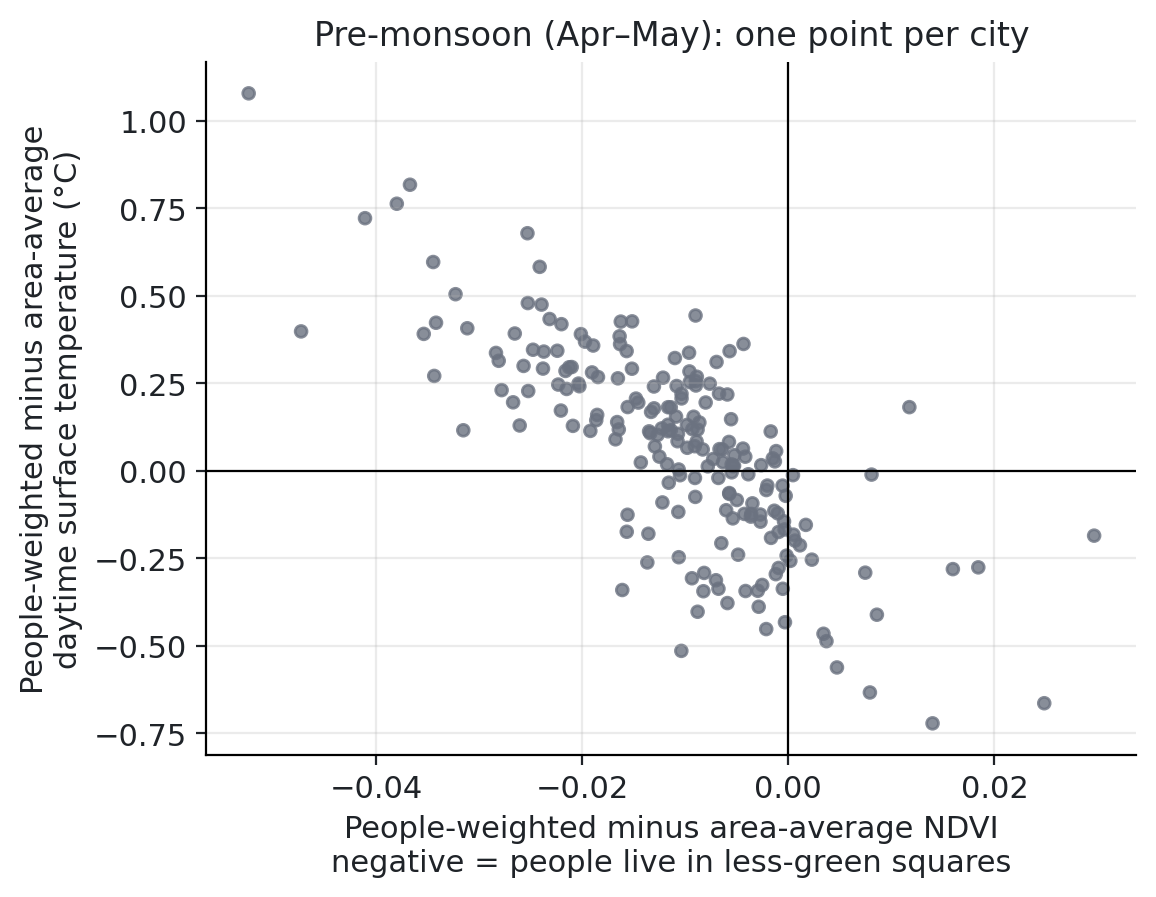
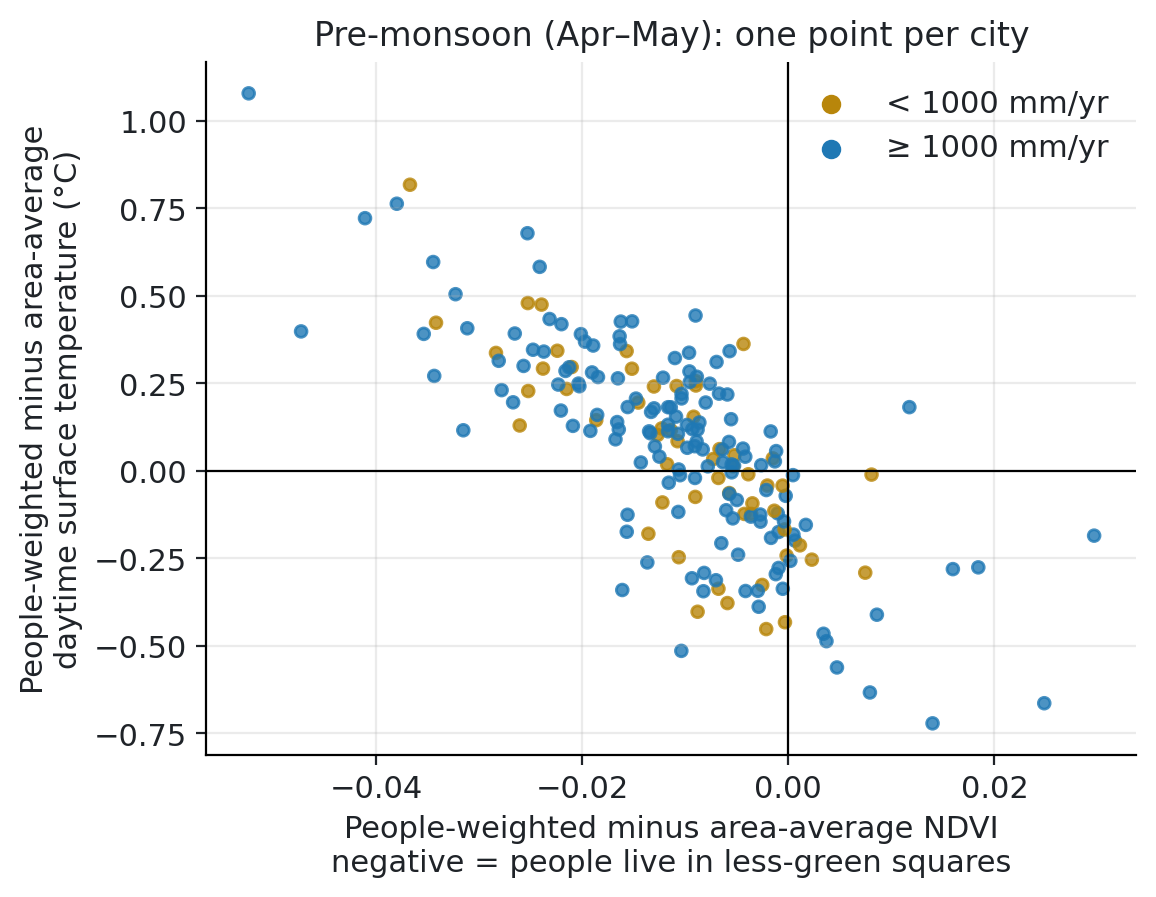
Role 4: exposure by rainfall, final slides 15 and 17, deck fact-check fixes
- exposure re-run with rainfall groups; the named pre-monsoon exceptions are
  mostly wet cities, so the dry-outskirts explanation is withdrawn
- new finding: less-green crowded squares have larger heat gaps (rho ~ -0.73)
- deck: slides 15 and 17 written; finished slides marked READY; slide 6/6b
  clear-image measures explained (land median vs all-square mean); slide 16
  6-night claim corrected

diff --git a/docs/deck_outline.md b/docs/deck_outline.md
@@ -103,7 +103,7 @@
 - 303 cities, 53,614 squares of 1 km, about 297 million people (WorldPop 2020). Source: `data/results/b2_checks.csv`, `data/samples/`.
 - Seasons really do differ: the median square is 39.7 °C by day before the monsoon, 31.2 °C after it and 27.9 °C in winter. Each season is averaged over 2019–2024.
 
-*Likely TA question:* "Why these three seasons and not the monsoon?" Jun–Sep cloud leaves too few usable images (Role 5's slide 6b, and Kumar et al. 2017 excluded it for the same reason). The other three each still have a clear daytime image 94–98% of the time in the median city.
+*Likely TA question:* "Why these three seasons and not the monsoon?" Jun–Sep cloud leaves too few usable images (Role 5's slide 6b, and Kumar et al. 2017 excluded it for the same reason). The other three still keep 94–98% of 8-day images after quality filtering (median over **land** squares, median city; `b2_checks.csv`). This is a different measure from slide 6b's, which averages over all squares including water.
 
 *Second likely TA question:* "Why is Kochi warmer in winter than before the monsoon?" Kerala's April–May is already wet (622 mm in Kochi), so the ground is cooled by evaporation, while winter is dry and sunny. Kochi's winter surface is 34.1 °C against 33.7 °C pre-monsoon. The same code gives the expected order in Jodhpur, so it is not a bug.
 
@@ -111,6 +111,7 @@
 - **Figure:** `figures/M_lst_availability.png`.
 - **Text:** "In Mumbai, only **25.2%** of daytime 8-day LST composites are usable in June–September, against **85.0%** in April–May." Kumar et al. (2017) also excluded June–September because of cloud-limited satellite coverage.
 - Across the six cities checked, monsoon daytime availability is lower than pre-monsoon availability; Kolkata is lowest at **19.1%**.
+- **Measure:** the share of 8-day images that pass the quality filter, averaged over **every** square in the city outline, with water squares counting as unusable. That is why Mumbai's April–May figure (85%) is lower than slide 6's land-only figure (~98%). Compare months **within** this chart, not with slide 6.
 
 *Speaker points (R5):*
 - We used the same MODIS LST quality mask as the main pipeline and measured usable observations month-by-month over 2019–2024 in six cities.
@@ -137,7 +138,7 @@
 
 *Likely TA question:* "How do you know missing squares are water and not cloud?" A cloudy square would be missing in some seasons and not others. In every one of the 303 cities, exactly the same squares are missing in all three seasons, and in Kochi the missing squares never had a single reading in 6 years.
 
-### Slide 8. The cooling slope: how much cooler greener squares are, other things equal (R3, DRAFT)
+### Slide 8. The cooling slope: how much cooler greener squares are, other things equal (R3, READY)
 - For each city × season × day/night:
   `LST = b0 + b1·NDVI + b2·built + b3·elevation + b4·water`
 - **Cooling slope** = b1 ÷ 10, in °C per 0.1 NDVI. **Negative = greener squares are cooler.**
@@ -152,7 +153,7 @@
 
 *Likely TA question:* "Is this causal?" No. It is an association with the observed confounders (built-up share, elevation and water) held fixed.
 
-### Slide 9. Climate is one value per city, and exposure is weighted by people (R2 + R4, DRAFT)
+### Slide 9. Climate is one value per city, and exposure is weighted by people (R2 + R4, READY)
 - **ERA5-Land is ~9 km,** too coarse to vary within a city, so it describes the **background climate** each city sits in.
 - **Dryness measure:** annual rainfall is the main one, and soil moisture is the second. Potential evaporation is unreliable in arid areas, so we don't use it.
 - **Heat Index:** daily, NOAA formula, from the daily maximum temperature and the dewpoint.
@@ -169,7 +170,7 @@
 
 ## Part 4: Results
 
-### Slide 10. Pilot: greener squares are cooler by day in both a desert and a wet city (R3, DRAFT)
+### Slide 10. Pilot: greener squares are cooler by day in both a desert and a wet city (R3, READY)
 - **Jodhpur (desert):** −1.32 °C per 0.1 NDVI (95%: −1.98 to −0.67).
 - **Kochi (wet):** −1.04 °C per 0.1 NDVI (95%: −1.57 to −0.51).
 - **At night, Jodhpur reverses:** greener squares are warmer (+0.62). This shows only once built-up share is controlled.
@@ -182,7 +183,7 @@
 
 *Likely TA question:* "Why does Kochi change so much with the controls?" Water. Kochi's water squares are cool and have low NDVI, so without a water control low greenery looks cooler and the cooling is understated. Adding water moves Kochi from −1.44 to −1.90; in Jodhpur, with little water, it changes nothing.
 
-### Slide 11. By day, cooling does not depend on rainfall; at night, wetter cities cool more (R2, DRAFT)
+### Slide 11. By day, cooling does not depend on rainfall; at night, wetter cities cool more (R2, READY)
 - **Figure:** `figures/D_ce_vs_rain.png` (top row day, bottom row night; one column per season).
 - **Text:** "Across 202 cities, the daytime slope shows no clear trend with rainfall in any season (pre-monsoon +0.17 per 10× rain, 95% CI −0.73 to +1.07). At night, wetter cities cool clearly more (pre −1.16, post −0.98 per 10× rain)." By day this supports neither side of the slide-3 debate; at night it sides with Guo / Schwaab (weaker cooling in dry places).
 
@@ -195,7 +196,7 @@
 
 *Likely TA question:* "Couldn't it be city size?" No. With city size added, the night results don't move (−1.19 before the monsoon, −1.03 after, both clear), and size itself is never significant.
 
-### Slide 12. Greener is cooler by day almost everywhere in India (R2, DRAFT)
+### Slide 12. Greener is cooler by day almost everywhere in India (R2, READY)
 - **Figure:** `figures/D_ce_map_pre_day.png`. Blue = cooling, red = warming; hollow markers = not significant; size = population. Optional backup: `D_ce_map_pre_night.png` for the night contrast.
 
 *Speaker points (R2):*
@@ -205,7 +206,7 @@
 
 *Likely TA question:* "Is there a regional pattern?" Not by day; that is what slide 11 tests formally.
 
-### Slide 13. Dry Indian cities do not warm by day; their green squares warm at night (R2, DRAFT)
+### Slide 13. Dry Indian cities do not warm by day; their green squares warm at night (R2, READY)
 - **Table** (pre-monsoon, from `data/results/main_result_bins.csv`):
 
 | | Cities | Median slope | Significant cooling | Greener-is-warmer |
@@ -224,10 +225,9 @@
 
 *Likely TA question:* "Are the night numbers reliable with so few dry cities?" Only 39 dry cities have night estimates. With a 6-night cut-off (48 dry cities) the result gets stronger, 54% vs 18%.
 
-### Slide 14. In the same city, daytime cooling is weaker after the monsoon, night cooling stronger (R3, DRAFT)
+### Slide 14. In the same city, daytime cooling is weaker after the monsoon, night cooling stronger (R3, READY)
 - **Figures:** `figures/S_season_paired.png` and `figures/S_dce_vs_dsoil.png`.
-- **Text:** "Cooling is [stronger / weaker] after the monsoon in X% of cities; [more so where soils wetted most]."
-- **Draft text:** "By day, cooling is weaker after the monsoon in 81% of 202 cities (median change +0.43 °C per 0.1 NDVI); at night it is stronger in 69% of 127 cities (median −0.16)." Add: "Soil wetting does not clearly explain this (`S_dce_vs_dsoil.png`: −1.71, 95% CI −3.65 to +0.24)."
+- **Text:** "By day, cooling is weaker after the monsoon in 81% of 202 cities (median change +0.43 °C per 0.1 NDVI); at night it is stronger in 69% of 127 cities (median −0.16)." Add: "Soil wetting does not clearly explain this (`S_dce_vs_dsoil.png`: −1.71, 95% CI −3.65 to +0.24)."
 
 *Speaker points (R3):*
 - Same city, same squares, different season. Everything fixed about the city (layout, size, region) cancels out. That is why this is our cleanest test of conditions (H4).
@@ -236,17 +236,22 @@
 
 *Likely TA question:* "Is the change just noise?" Wilcoxon p ≈ 7e-19 by day across 202 cities. Per city, 30% are significantly weaker and only 2% significantly stronger, using a conservative standard error that treats the seasons as independent.
 
-### Slide 15. People live in less green, hotter squares, especially at night (R4, READY)
-- **Less green:** crowded squares are less green in **90–96%** of 202 cities, depending on season.
-- **At night:** people live in hotter-than-average squares in **96–97%** of cities (135–157 cities, depending on season; humid cities are under-represented because of cloud).
-- **By day:** the pattern is weaker and depends on season: **63%** pre-monsoon, **87%** post-monsoon, **73%** winter.
-  - The pre-monsoon exceptions include Surat, Pune, Mumbai, Indore, Nagpur and Jaipur, where bare outskirts heat up more than the city (as in Jodhpur).
-- **Size of the gap:** small on average (median +0.1 to +0.2 °C), but up to about 1 °C, as in Kolkata (+1.08 °C).
-- **Figures:** `figures/F_exposure_by_season.png` (main) and `figures/F_exposure_dumbbell.png` (backup or a second panel).
+### Slide 15. Crowded squares are less green, and the less green they are, the hotter (R4, READY)
+- **Less green:** crowded squares are less green than the city average in **90–96%** of 202 cities, depending on season.
+- **Hotter at night:** people live in hotter-than-average squares in **96–97%** of cities (135–157 cities with night data; humid cities are under-represented because of cloud).
+- **Hotter by day, less consistently:** **63%** pre-monsoon, **87%** post-monsoon, **73%** winter. The gap is small on average (median +0.1 to +0.2 °C) but reaches **+1.08 °C in Kolkata**.
+- **The link to vegetation:** across cities, the less green the crowded squares are, the bigger their heat gap (Spearman **ρ ≈ −0.73** in every season).
+- **Figures:** `figures/F_exposure_by_season.png` (main) and `figures/F_crowded_vs_green.png` (the vegetation link). Backup: `figures/F_exposure_dumbbell.png`.
 
-*Speaker notes:*
-- This uses population density, not income, so say "crowded", never "poor". Chakraborty et al. 2019 found poorer neighbourhoods hotter in 72% of 25 cities.
-- **Source:** `data/results/exposure.csv`.
+*Speaker points (R4):*
+- People-weighting: each 1 km square's temperature is weighted by the number of people living there (WorldPop 2020). Comparing with the plain average shows whether the heat sits where people are.
+- Night is the clearest result. By day, before the monsoon, some large cities go the other way: Surat, Pune, Mumbai, Kozhikode, Indore, Nagpur, Jaipur. Most of them are wet, so it is not simply a dry-city effect, and the reason is not established.
+- Rainfall makes only a small difference, and only before the monsoon (55% of dry vs 66% of wet cities; none in other seasons).
+- We use population density, not income, so say "crowded", never "poor". Chakraborty et al. 2019 found poorer neighbourhoods hotter in 72% of 25 cities, using surface temperature, which is the same range as our 63–87% by day.
+
+*Likely TA question:* "Is +0.1 °C meaningful?" On average it is small; the point is the direction (almost every city at night) and the link to greenness (ρ ≈ −0.73). In some cities it is about 1 °C. It is surface temperature, which overstates what people feel (Venter et al. 2021).
+
+*Source:* `data/results/exposure.csv`; rainfall from `city_climate.csv`.
 
 ### Slide 15b. Water does not explain away the vegetation effect (R5, READY)
 - **Figure:** `figures/G_water_effect.png`.
@@ -260,15 +265,14 @@
 
 *Likely TA question:* "How was water share calculated?" We intersected OpenStreetMap water polygons with each MODIS square and used the fraction of the square covered by mapped water. A known limitation is that OSM coastlines do not represent the sea in the same way as inland water polygons.
 
-### Slide 16. Daytime cooling survives every check; controls are what matter (R3, DRAFT)
+### Slide 16. Daytime cooling survives every check; controls are what matter (R3, READY)
 - **Figure:** `figures/H_robustness_table.png`. The variants are EVI, a 20% built-up cut-off, each control removed, water squares dropped, and a 6-night cut-off.
-- Name the one variant that matters most.
-- **Draft text:** "70–77% of cities show significant daytime cooling under every variant. Dropping the controls matters most (city ranking ρ = 0.56 with the main spec); EVI gives a similar ranking (ρ = 0.83), and the water control changes little (ρ = 0.91)."
+- **Text:** "70–77% of cities show significant daytime cooling under every variant. Dropping the controls matters most (city ranking ρ = 0.56 with the main spec); EVI gives a similar ranking (ρ = 0.83), and the water control changes little (ρ = 0.91)."
 
 *Speaker points (R3):*
 - What we changed: the greenness index (EVI), the urban cut-off (20%), each control (including water), water squares dropped, and the night cut-off (6 clear nights). The rainfall slope changes sign across variants and is never significant at 5%, so "no clear daytime rainfall pattern" is the safe reading.
 - The night result depends on the built-up control: without it, greener squares look cooler at night in 53–75% of cities; with it, the night slope centres on zero. Built-up surfaces hold heat at night.
-- A 6-night cut-off adds 24–32 humid cities at night and does not change the picture (ρ = 0.91–0.95).
+- A 6-night cut-off adds 24–32 cities at night, about three-quarters of them wet (`robustness.csv`), and does not change the picture (ρ = 0.91–0.95).
 
 *Likely TA question:* "Why do NDVI and EVI disagree in some cities?" They disagree on significance in 14% of cities. It is not explained by NDVI being tied to built-up share (16% vs 13%, p = 0.54), so we report it as an open point.
 
@@ -276,14 +280,18 @@
 
 ## Part 5: Observations
 
-### Slide 17. What we observe so far (R4 collects, each person reads their own line; DRAFT)
-One line per hypothesis, each with a number and a paper. Fill from `docs/observations.md`.
-- **H1** (R3): …
-- **H2** (R2): …
-- **H3** (R2 / R3): … (give the number of dry and wet cities; humid cities have less night data)
-- **H4** (R3): …
-- **H5** (R4): crowded squares are less green in 90–96% of cities. People live in hotter squares at night in 96–97% of cities, and by day in 63–87%.
-- **Data** (R1 / R5): no monsoon season, 101 cities too small for an estimate, and humid cities under-represented at night.
+### Slide 17. What we observe so far (each person reads their own line; READY)
+- **H1, greener is cooler by day (R3):** yes, almost everywhere. 75% of 202 cities cool significantly before the monsoon (median −1.13 °C per 0.1 NDVI), and 70–74% in the other seasons. Fits Bowler 2010, Schwaab 2021 and Kim 2024.
+- **H2, depends on moisture? (R2):** not by day. The daytime slope shows no clear trend with rainfall (+0.17 per 10× rain, 95% CI −0.73 to +1.07), and no dry city warms by day (0 of 56, against Guo's 22%). So neither side of the dry-climate debate is supported by day.
+- **H3, nights (R2/R3):** night slopes centre on zero (as in Yang 2022 and Du 2024). Wetter cities cool more at night (−1.16 per 10× rain, 135 cities): 38% of 39 dry cities have warmer green nights, against 18% of 96 wet ones. This fits Guo's heat-storage idea. Humid cities have less night data, but the result holds with a 6-night cut-off (54% vs 18%).
+- **H4, seasons in the same city (R3):** daytime cooling is weaker after the monsoon in 81% of 202 cities (median change +0.43). Night cooling is stronger in 69% of 127. Soil wetting does not clearly explain the change (p = 0.09).
+- **H5, exposure (R4):** crowded squares are less green in 90–96% of cities. People live in hotter squares at night in 96–97% of cities and by day in 63–87%, and the less green the crowded squares, the hotter (ρ ≈ −0.73).
+- **Data (R1/R5):**
+  - The monsoon is excluded: usable images in Mumbai fall from 85% to 25%.
+  - 101 of 303 cities are too small for an estimate.
+  - Controlling for water barely moves the result (median −1.05 → −1.13).
+
+*Speaker notes:* Every line here is an association, not a cause. Each presenter reads their own line, so keep to one breath each.
 
 ### Slide 18. Limitations, and what is left for the final (R4, READY)
 - **Done (about 50–60%):** the pipeline, 303 cities × 3 seasons sampled, the cooling slopes, climate, exposure and the main results.

diff --git a/docs/observations.md b/docs/observations.md
@@ -67,7 +67,9 @@ Source: `data/results/exposure.csv`. 202 cities with ≥ 30 urban squares (built
 - **Crowded squares are less green almost everywhere.** People-weighted NDVI is below the area average in 90% (pre), 95% (post) and 96% (winter) of 202 cities.
 - **At night, people live in hotter squares in almost every city:** 96% (pre, n = 135), 96% (post, n = 141) and 97% (winter, n = 157). The median gap is +0.18 to +0.22 °C. Humid cities are under-represented at night because of cloud.
 - **By day, the pattern is weaker and depends on season:** people live in hotter squares in 63% (pre), 87% (post) and 73% (winter) of cities. The median gap is +0.09, +0.18 and +0.12 °C.
-- **The pre-monsoon exceptions include hot, dry-season cities.** Among the 20 largest, people live in *cooler*-than-average squares in Jaipur, Nagpur, Indore, Pune, Surat, Mumbai and Kozhikode. This matches the pilot, where bare outskirts heat up more than the city by day (Jodhpur). It is not yet tested by rainfall; that needs Role 2's `city_climate.csv`.
+- **Where crowded squares are less green, they are hotter.** Across cities, the greenness gap and the daytime heat gap are strongly linked: Spearman ρ = −0.75 (pre), −0.72 (post), −0.74 (winter), all p < 1e-30. This ties the exposure result to vegetation: the cities that put the least greenery where people live are the ones where people get the most extra heat.
+- **Rainfall matters only a little, and only before the monsoon.** Before the monsoon, people live in hotter-than-average squares in 55% of 56 dry cities (< 1,000 mm, median gap +0.03 °C) against 66% of 146 wet ones (+0.11 °C). Spearman ρ between gap and rainfall is +0.19 (p = 0.006). After the monsoon (88% vs 86%) and in winter (73% vs 73%) there is no difference.
+- **The pre-monsoon exceptions are not mainly dry cities.** Among the 20 largest, people live in *cooler*-than-average squares by day in Surat (−0.72 °C), Pune (−0.66), Mumbai (−0.47), Kozhikode (−0.39), Indore (−0.34), Nagpur (−0.30) and Jaipur (−0.25). Only Jaipur is under 1,000 mm. So the pilot's explanation for Jodhpur (bare outskirts hotter than the city) does not obviously carry over, and the reason is not established.
 - **Gaps are small on average** (tenths of a degree) **but reach about 1 °C** in some cities (Kolkata +1.08 °C pre-monsoon day). Kolkata is also the city where crowded squares are least green (−0.05 NDVI).
 - **Comparison with the literature:** Chakraborty et al. 2019 found poorer neighbourhoods hotter in 72% of 25 cities, using surface temperature. We use population density, not income, so we can say "more crowded squares", not "poorer". Our 63–87% by day is in the same range.
 
